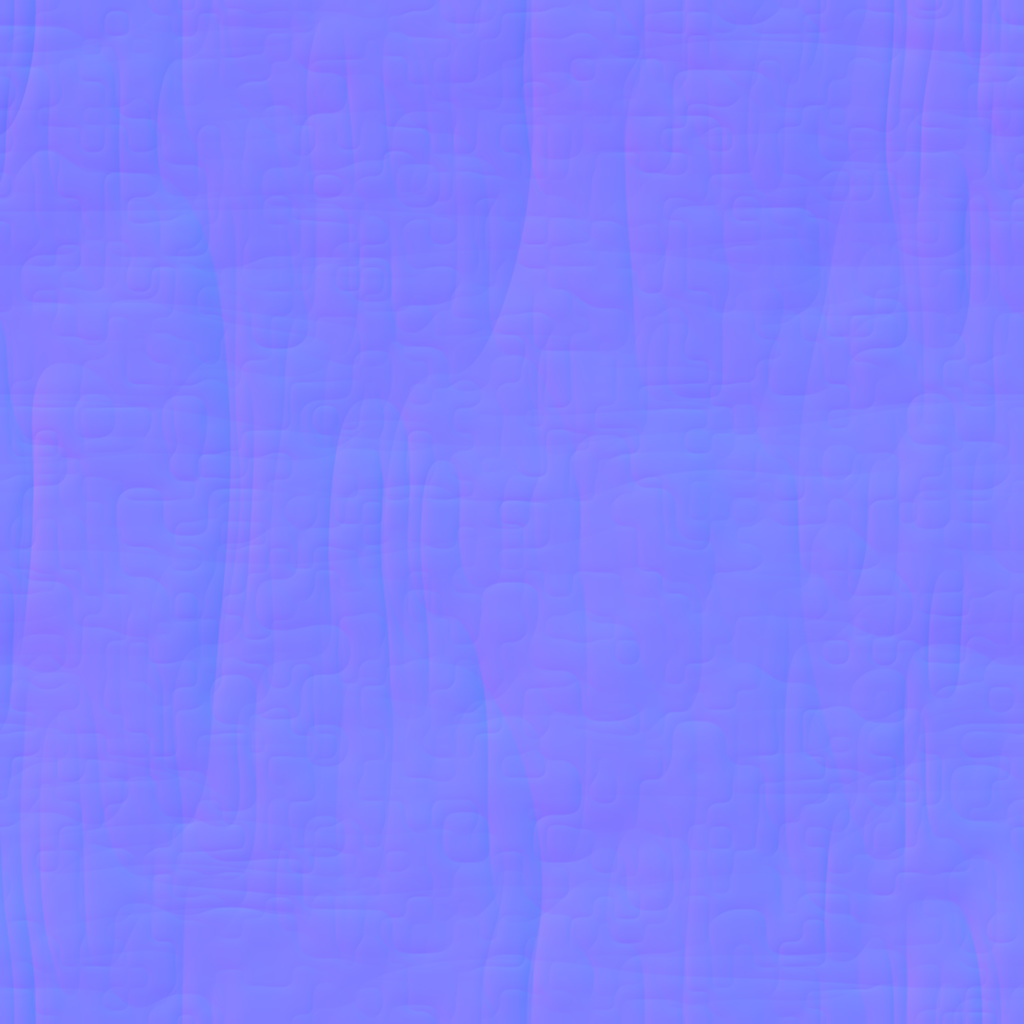
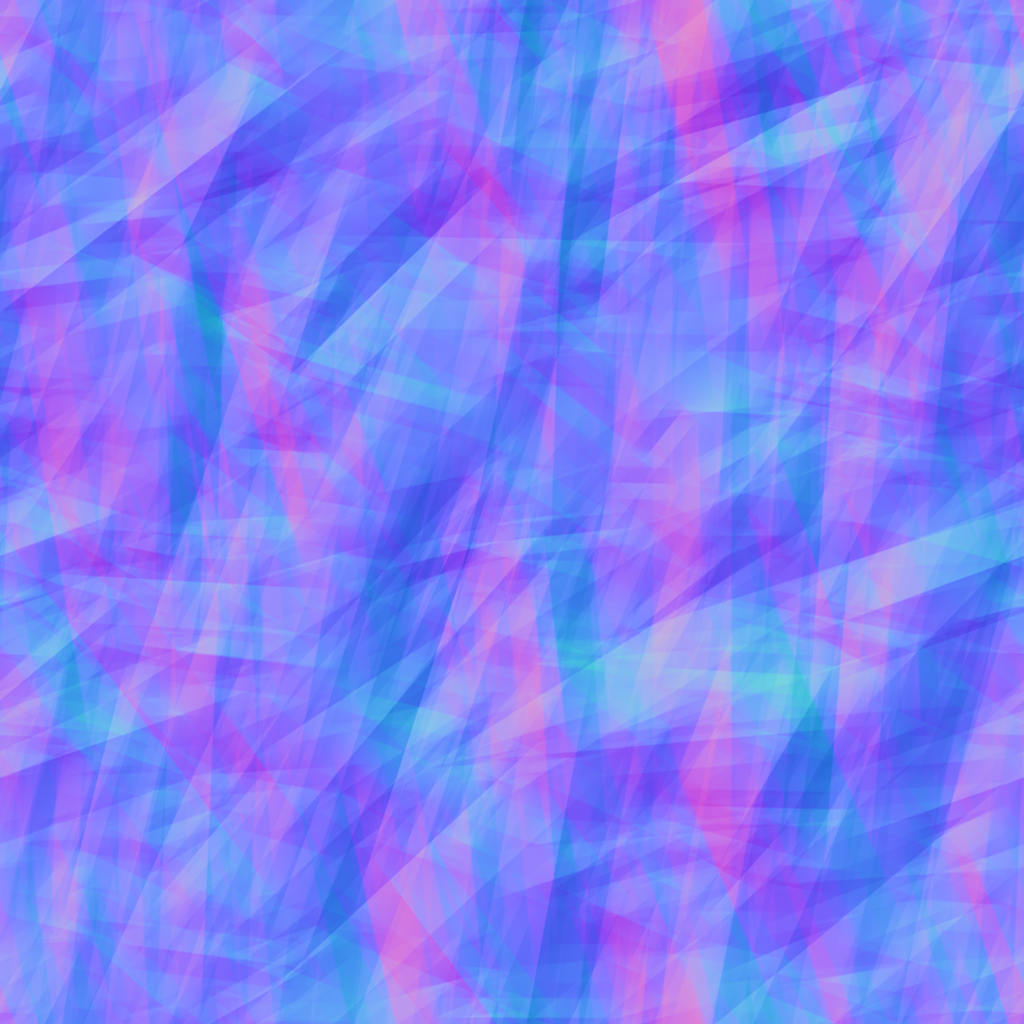
vehicle-pad: crumpled-film MLI (straight folds of finite length, flat facets between sharp creases; narrower tint range), frost: fuller coat on the barrels and a thin one over markings (no stripes through letters), swing-arm walkways as their own model with coarse bars from 6 to 25 m and a grating p
Claude-Session: https://claude.ai/code/session_01PzbhGSo8poSxwMDC2bD922

diff --git a/tools/vehicle/bake-textures.ts b/tools/vehicle/bake-textures.ts
@@ -511,20 +511,55 @@ const recipes: Record<string, () => void> = {
   mli() {
     const S = 1024;
     const T = 1.2;
-    const warp = (u: number, v: number): [number, number] => [u + 0.05 * (fbm(u, v, 3, 3, 2, 121) - 0.5), v + 0.05 * (fbm(u, v, 3, 3, 2, 122) - 0.5)];
-    const creaseA = (u: number, v: number): number => {
-      const [wu, wv] = warp(u, v);
-      // Long folds mostly along v (the blanket hangs), a second family across them at a third of the strength.
-      return Math.pow(ridged(wu, wv, 7, 2, 3, 123, 0.45), 1.6) + 0.35 * Math.pow(ridged(wu, wv, 2, 6, 3, 124, 0.45), 1.8);
+    // The film is crumpled, not embossed: straight folds of finite length, each a ridge or a valley with flat
+    // flanks (a tent across it, tapering at its ends), laid over one another. Where folds cross, the flanks
+    // meet in more creases, so the surface is a mosaic of flat facets of every size between sharp crease
+    // lines, which is what turns a highlight into the long glints and dark folds of the photographs. Two
+    // families: long hanging folds of 25-70 cm mostly along v, and short ones of 8-25 cm in any direction.
+    const folds = new Field(S, S);
+    const crest = new Field(S, S);
+    const fold = (k: number, seed: number, lMin: number, lMax: number, wMin: number, wMax: number, aMin: number, aMax: number, hang: number): void => {
+      const r = (q: number): number => hash(k, q, seed);
+      const cu = r(1);
+      const cv = r(2);
+      const L = (lMin + (lMax - lMin) * r(3)) / T;
+      const w = (wMin + (wMax - wMin) * r(4)) / T;
+      const amp = (aMin + (aMax - aMin) * r(5)) * (r(6) < 0.55 ? 1 : -1);
+      const ang = r(7) < hang ? Math.PI / 2 + (r(8) - 0.5) * 0.9 : r(8) * Math.PI;
+      const du = Math.cos(ang);
+      const dv = Math.sin(ang);
+      const ext = L / 2 + w;
+      const x0 = Math.floor((cu - ext) * S);
+      const x1 = Math.ceil((cu + ext) * S);
+      const y0 = Math.floor((cv - ext) * S);
+      const y1 = Math.ceil((cv + ext) * S);
+      for (let y = y0; y <= y1; y++) {
+        for (let x = x0; x <= x1; x++) {
+          const pu = (x + 0.5) / S - cu;
+          const pv = (y + 0.5) / S - cv;
+          const along = pu * du + pv * dv;
+          const across = -pu * dv + pv * du;
+          if (Math.abs(across) >= w || Math.abs(along) >= L / 2) continue;
+          const t = Math.abs(along) / (L / 2);
+          const env = 1 - t * t * t;
+          const i = mod(y, S) * S + mod(x, S);
+          folds.data[i] = folds.data[i]! + amp * env * (1 - Math.abs(across) / w);
+          if (amp > 0) crest.data[i] = Math.max(crest.data[i]!, env * smooth(0.25, 0, Math.abs(across) / w));
+        }
+      }
     };
-    const h = Field.from(S, S, (u, v) => 0.014 * fbm(u, v, 3, 3, 3, 125) + 0.0052 * creaseA(u, v) + 0.0009 * ridged(u, v, 22, 22, 2, 126));
+    for (let k = 0; k < 150; k++) fold(k, 131, 0.25, 0.7, 0.05, 0.13, 0.006, 0.015, 0.7);
+    for (let k = 0; k < 520; k++) fold(k, 132, 0.08, 0.25, 0.018, 0.05, 0.0012, 0.0034, 0.3);
+    // A broad sag between the stand-off buttons under it.
+    const h = Field.from(S, S, (u, v, x, y) => 0.006 * fbm(u, v, 3, 3, 2, 125) + folds.at(x, y));
+    const creaseA = (_u: number, _v: number, x: number, y: number): number => crest.at(x, y);
     save('mli_n', normalMap(h, T, 1));
     const ao = cavity(h, 6, 90);
     const [lo, hi] = h.range();
     save(
       'mli_orm',
       orm(S, S, (u, v, x, y) => {
-        const c = clamp(creaseA(u, v) * 0.9);
+        const c = clamp(creaseA(u, v, x, y) * 0.9);
         // Film between the folds is the smoothest; fold crests are scuffed; the unresolved crinkle varies by patch.
         return [clamp(0.72 + 0.28 * ao.at(x, y)), clamp(0.8 + 0.14 * c + 0.12 * (fbm(u, v, 10, 10, 3, 127) - 0.5)), 1];
       }),
@@ -535,7 +570,8 @@ const recipes: Record<string, () => void> = {
       'mligold_albedo',
       Image.from(S, S, (u, v, x, y) => {
         const t = clamp((h.at(x, y) - lo) / (hi - lo));
-        const c = lerp3(rgb(224, 128, 38), rgb(250, 190, 96), smooth(0.15, 0.85, t));
+        // (The film is one colour; its depth of tint varies only a little with how it lies.)
+        const c = lerp3(rgb(224, 128, 38), rgb(250, 190, 96), 0.3 + 0.4 * smooth(0.15, 0.85, t));
         return tint(c, (0.9 + 0.1 * fbm(u, v, 40, 40, 2, 128)) * (0.82 + 0.18 * ao.at(x, y)));
       }),
     );

diff --git a/src/render/vehicle/site/tower.ts b/src/render/vehicle/site/tower.ts
@@ -482,7 +482,6 @@ export const padUmbilicalTower: SiteGenerator = ({ params, defs }) => {
       b.mat('paint-grey').masks(0.2, 1, 0.5, 0);
       trussArm(b, length - 0.6, 2.2, 2.6, 2.4, 0.2);
       if (b.lod < 2) {
-        gratingPanel(b, -(length - 0.8) / 2, 0.12, 0, length - 0.8, 1.3, true);
         handrail(b, [[0, 0.14, 0.65], [-length + 0.8, 0.14, 0.65]], 1.05, 2.4);
         handrail(b, [[0, 0.14, -0.65], [-length + 0.8, 0.14, -0.65]], 1.05, 2.4);
         // Propellant lines along the arm, ending in the umbilical carrier that meets the vehicle's plate.
@@ -518,6 +517,24 @@ export const padUmbilicalTower: SiteGenerator = ({ params, defs }) => {
       b.mat('steel-dark').masks(0.2, 1, 0.5, 0);
       frustum(b, 0.36, 0.36, -0.3, 2.9, b.pick(16, 10, 6), 'hinge');
     });
+  /**
+   * An arm's walkway floor, a model of its own so that it picks its LOD by its own bar pitch: every 60 mm bar
+   * only within a few metres, heavier bars at 150 mm out to about 25 m (at 1080p), then a plate of grating
+   * texture (a dark band from below, as a real walkway is at that distance).
+   */
+  const armGrating = (name: string, length: number): PartModel =>
+    buildModel(
+      name,
+      (b) => {
+        b.mat('galvanised').masks(0.2, 1, 0.3, 0);
+        if (b.lod < 2) gratingPanel(b, -(length - 0.8) / 2, 0.12, 0, length - 0.8, 1.3, true, true);
+        else {
+          b.mat('grating');
+          box(b, length - 0.8, 0.03, 1.3, [-(length - 0.8) / 2, 0.12, 0], 'grating');
+        }
+      },
+      [numParam(params, 'gratingLod1Pixels', 2400), numParam(params, 'gratingLod2Pixels', 650)],
+    );
   /** Stand-in that casts an arm's shadow where the cascades cannot resolve its truss. */
   const armShadow = (name: string, length: number): PartModel =>
     buildModel(name, (b) => {
@@ -529,6 +546,7 @@ export const padUmbilicalTower: SiteGenerator = ({ params, defs }) => {
   arms.forEach((a, i) => {
     models[`arm${i}`] = armModel(`pad.umbilicalTower.arm${i}`, dist - half - 0.5 - a.reach);
     models[`armShadow${i}`] = armShadow(`pad.umbilicalTower.armShadow${i}`, dist - half - 0.5 - a.reach);
+    models[`armGrating${i}`] = armGrating(`pad.umbilicalTower.armGrating${i}`, dist - half - 0.5 - a.reach);
   });
   models['crewArm'] = buildModel('pad.umbilicalTower.crewArm', (b) => crewArm(b, dist - half - 0.5 - crew.reach, -crewHingeZ, crewSign ? { sheet, name: crewSign } : null));
   models['lamps'] = buildModel('pad.umbilicalTower.lamps', (b) => {
@@ -557,6 +575,7 @@ export const padUmbilicalTower: SiteGenerator = ({ params, defs }) => {
       arms.forEach((a, i) => {
         emit(`arm${i}`, [face, a.y - 1.45, hingeZ], yaw(-68 * DEG * t), { moving: moving.arms, fineShadowOnly: true });
         emit(`armShadow${i}`, [face, a.y - 1.45, hingeZ], yaw(-68 * DEG * t), { moving: moving.arms, shadowProxy: true });
+        emit(`armGrating${i}`, [face, a.y - 1.45, hingeZ], yaw(-68 * DEG * t), { moving: moving.arms, castShadow: false });
       });
       const c = state.crewArm * state.crewArm * (3 - 2 * state.crewArm);
       emit('crewArm', [face, crew.y - 1.3, crewHingeZ], yaw(78 * DEG * c), { moving: moving.crewArm });

diff --git a/src/render/vehicle/site/pad.ts b/src/render/vehicle/site/pad.ts
@@ -151,7 +151,7 @@ export function stairFlight(b: MeshBuilder, from: Vec3Tuple, to: Vec3Tuple, widt
  * banding and the cross bars, so the panel stays open; the far LOD has none of it. The sky and the structure
  * above show through it from below, as through the real thing (an opaque textured plate does not).
  */
-export function gratingPanel(b: MeshBuilder, cx: number, y: number, cz: number, sx: number, sz: number, alongX = true): void {
+export function gratingPanel(b: MeshBuilder, cx: number, y: number, cz: number, sx: number, sz: number, alongX = true, coarse = false): void {
   if (b.lod === 2) return;
   const prev = b.material;
   b.mat('galvanised');
@@ -168,12 +168,16 @@ export function gratingPanel(b: MeshBuilder, cx: number, y: number, cz: number, 
     if (alongX) box(b, 0.022, d * 0.6, W - 0.024, [cx + t, y - d * 0.15, cz], 'grating');
     else box(b, W - 0.024, d * 0.6, 0.022, [cx, y - d * 0.15, cz + t], 'grating');
   }
-  if (b.lod === 0) {
-    const nb = Math.max(2, Math.round(W / 0.06));
+  // `coarse`: LOD 1 keeps bearing bars too, as heavier bars at 150 mm (a grating seen from 6 to 25 m: its
+  // 60 mm bars would be under a pixel apart and alias into glitter, its frame alone would read as no floor).
+  if (b.lod === 0 || coarse) {
+    const fine = b.lod === 0;
+    const nb = Math.max(2, Math.round(W / (fine ? 0.06 : 0.15)));
+    const t0 = fine ? 0.008 : 0.02;
     for (let i = 1; i < nb; i++) {
       const t = -W / 2 + (W * i) / nb;
-      if (alongX) box(b, L - 0.024, d, 0.008, [cx, y, cz + t], 'grating');
-      else box(b, 0.008, d, L - 0.024, [cx + t, y, cz], 'grating');
+      if (alongX) box(b, L - 0.024, d, t0, [cx, y, cz + t], 'grating');
+      else box(b, t0, d, L - 0.024, [cx + t, y, cz], 'grating');
     }
   }
   b.mat(prev);

diff --git a/src/render/vehicle/parts/stage.ts b/src/render/vehicle/parts/stage.ts
@@ -105,7 +105,7 @@ export const stageTank: PartGenerator = ({ def, params, defs }) => {
   const frostFilm = (y: number, phi: number): number => {
     let low = 0;
     for (const t of tanks) if (y >= t.y0 - 0.2 && y <= t.y1 + 0.2) low = 1 - Math.min(1, (y - t.y0) / Math.max(1, t.y1 - t.y0));
-    return Math.min(1, 0.62 + 0.22 * low + 0.3 * (noise2((phi * R) / 0.6, y / 5.5, 61) - 0.5));
+    return Math.min(1, 0.8 + 0.2 * low + 0.36 * (noise2((phi * R) / 0.6, y / 5.5, 61) - 0.5));
   };
   /** How high the soot of the base flow reaches at an azimuth: highest on the lee side. */
   const sootReach = (phi: number): number => sootTop * (0.7 + 0.75 * (0.5 + 0.5 * Math.cos(phi - sootLee)));
@@ -191,8 +191,9 @@ export const stageTank: PartGenerator = ({ def, params, defs }) => {
       mask: (y: number, _phi: number, r: number, m: MaskOut) => {
         // The mask callback sees every ring; only the outer skin frosts and soots.
         const outer = r > R - 1e-4;
-        // Frost lies thinner on a marking (dark paint warms in the sun): it shows through in streaks.
-        m.frost = outer ? frostAt(y) * frostFilm(y, _phi) * (markedAt(_phi, y, y) ? 0.45 : 1) : 0;
+        // Over a marking the coat is thin (a few streaks: the letters stay whole and at full contrast); it
+        // thickens raggedly over the cell round each one instead of cutting its letters into stripes.
+        m.frost = outer ? frostAt(y) * (markedAt(_phi, y, y) ? 0.27 : frostFilm(y, _phi)) : 0;
         m.soot = outer ? sootAt(y, _phi) : y < aftTop + 1 ? 0.6 : 0;
         m.ao = outer ? 1 : y < aftTop + 1 ? 0.55 : 0.7;
         m.wear = outer && (y < 0.02 || y > H - 0.02) ? 0.5 : 0;
